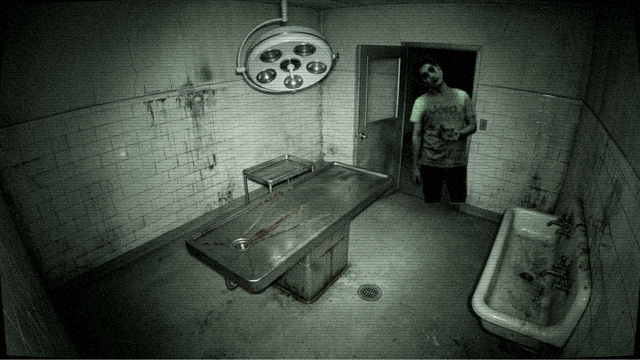
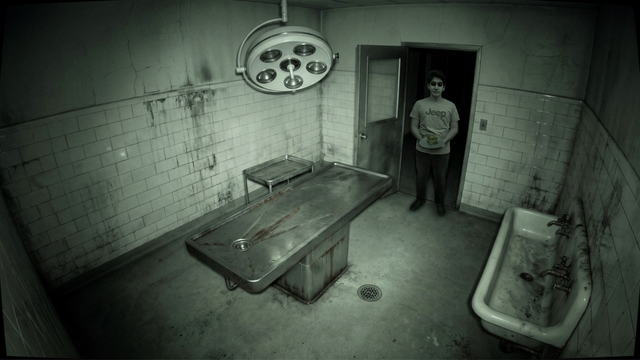
Kamera görüntüleri: Gemini'de yapılan 10 karakterli görsel

diff --git a/index.html b/index.html
@@ -70,7 +70,7 @@
   /* DOCUMENT */
   #doc{background:#030405; cursor:pointer}
   #paperDoc{position:absolute; left:50%; top:50%; width:560px; height:690px; transform:translate(-50%,-50%) rotate(-1.2deg); padding:40px 46px; color:#1c1a16; font-family:'Special Elite','Courier New',monospace; font-size:15.5px; line-height:1.45;
-    background:linear-gradient(rgba(214,205,180,.55),rgba(214,205,180,.55)), url(img/doc/paper.png?v=20261108k) center/cover, #cfc7b0; box-shadow:0 30px 90px rgba(0,0,0,.95), inset 0 0 80px rgba(70,50,20,.5); filter:sepia(.25) brightness(.86) contrast(1.05); animation:paperIn .9s cubic-bezier(.2,.8,.3,1); overflow:hidden}
+    background:linear-gradient(rgba(214,205,180,.55),rgba(214,205,180,.55)), url(img/doc/paper.png?v=20261108l) center/cover, #cfc7b0; box-shadow:0 30px 90px rgba(0,0,0,.95), inset 0 0 80px rgba(70,50,20,.5); filter:sepia(.25) brightness(.86) contrast(1.05); animation:paperIn .9s cubic-bezier(.2,.8,.3,1); overflow:hidden}
   @keyframes paperIn{from{transform:translate(-50%,-30%) rotate(-8deg) scale(.7); opacity:0} to{transform:translate(-50%,-50%) rotate(-1.2deg); opacity:1}}
   #paperDoc .hd{font-size:12.5px; letter-spacing:1px; border-bottom:2px solid #1c1a16; padding-bottom:6px; text-transform:uppercase}
   #paperDoc h2{font-size:24px; margin:14px 0 10px; letter-spacing:2px}
@@ -522,7 +522,7 @@
 
   /* ---------- ana menü v2 ---------- */
   #title{background:#020405}
-  #title .tbg{position:absolute; inset:-40px; background:url(img/office.png?v=20261108k) 40% 50%/cover; filter:blur(5px) brightness(.32) saturate(.6) hue-rotate(10deg); animation:tpan 40s ease-in-out infinite alternate}
+  #title .tbg{position:absolute; inset:-40px; background:url(img/office.png?v=20261108l) 40% 50%/cover; filter:blur(5px) brightness(.32) saturate(.6) hue-rotate(10deg); animation:tpan 40s ease-in-out infinite alternate}
   @keyframes tpan{from{transform:scale(1.08) translateX(-30px)} to{transform:scale(1.15) translateX(30px)}}
   #title .tflk{position:absolute; inset:0; background:linear-gradient(90deg, rgba(2,4,5,.95) 30%, rgba(2,4,5,.4) 60%, rgba(2,4,5,.85)); animation:tflick 7s steps(1) infinite}
   @keyframes tflick{0%,93%,100%{opacity:1} 94%{opacity:.82} 95%{opacity:1} 97%{opacity:.7}}
@@ -580,8 +580,8 @@
 
   /* ---------- ana menü v3: 1998 güvenlik kamerası kaydı ---------- */
   #title{background:#000; font-family:'VT323',monospace; color:#f2f2f2}
-  #title .vfeed{position:absolute; inset:-20px; background:url(img/cam/corr.png?v=20261108k) center/cover; filter:grayscale(1) contrast(1.25) brightness(.8); animation:vjit 6s steps(1) infinite}
-  #title .vfeed.who{background-image:url(img/cam/corr_pasta.png?v=20261108k); opacity:0; animation:vappear 11s steps(1) infinite}
+  #title .vfeed{position:absolute; inset:-20px; background:url(img/cam/corr.png?v=20261108l) center/cover; filter:grayscale(1) contrast(1.25) brightness(.8); animation:vjit 6s steps(1) infinite}
+  #title .vfeed.who{background-image:url(img/cam/corr_pasta.png?v=20261108l); opacity:0; animation:vappear 11s steps(1) infinite}
   @keyframes vappear{0%,80%,100%{opacity:0} 82%,85%{opacity:1}}
   @keyframes vjit{0%,95%,100%{transform:none} 96%{transform:translate(0,4px) skewX(1deg)} 97%{transform:translate(0,-3px)}}
   #title .vlines{position:absolute; inset:0; background:repeating-linear-gradient(0deg, rgba(0,0,0,.35) 0 2px, transparent 2px 4px); pointer-events:none}
@@ -617,8 +617,8 @@
 
   /* ---------- VHS ekranları (arşiv, custom night, gece başı, 6 AM, belge) ---------- */
   .vhs{background:#000; font-family:'VT323',monospace; color:#f2f2f2}
-  .vhs .vbg{position:absolute; inset:-20px; background:url(img/cam/archive.png?v=20261108k) center/cover; filter:grayscale(1) contrast(1.2) brightness(.32) blur(1px); animation:vjit 7s steps(1) infinite}
-  #custom .vbg{background-image:url(img/cam/cold.png?v=20261108k)} #doc .vbg{background-image:url(img/cam/autopsy.png?v=20261108k); filter:grayscale(1) brightness(.18) blur(3px)}
+  .vhs .vbg{position:absolute; inset:-20px; background:url(img/cam/archive.png?v=20261108l) center/cover; filter:grayscale(1) contrast(1.2) brightness(.32) blur(1px); animation:vjit 7s steps(1) infinite}
+  #custom .vbg{background-image:url(img/cam/cold.png?v=20261108l)} #doc .vbg{background-image:url(img/cam/autopsy.png?v=20261108l); filter:grayscale(1) brightness(.18) blur(3px)}
   .vhs .vlines{position:absolute; inset:0; background:repeating-linear-gradient(0deg, rgba(0,0,0,.35) 0 2px, transparent 2px 4px); pointer-events:none; z-index:1}
   .vhs .vvig{position:absolute; inset:0; background:radial-gradient(ellipse at center, transparent 45%, rgba(0,0,0,.85)); pointer-events:none}
   .vhs .osd{position:absolute; font-size:34px; text-shadow:2px 2px 0 #000; z-index:2}
@@ -727,7 +727,7 @@
   <section id="game" class="screen">
     <div id="office">
       <div id="view">
-        <img class="bg" src="img/office.png?v=20261108k" alt="">
+        <img class="bg" src="img/office.png?v=20261108l" alt="">
         <div id="doorClip"></div>
         <div class="hole" id="corr"><div class="beam"></div><div id="headlight"></div></div>
         <div class="hole" id="dwL"><div class="shutter"></div></div>
@@ -771,7 +771,7 @@
           <div class="menu"><u>D</u>osya &nbsp; <u>G</u>örünüm &nbsp; <u>K</u>ameralar &nbsp; <u>Y</u>ardım</div>
           <div id="feedWin">
             <div class="wtitle"><span id="camName"></span><span>● REC</span></div>
-            <div id="feedBox"><img id="feedImg" src="img/cam/corr.png?v=20261108k" alt=""><canvas id="static" width="320" height="180"></canvas><div class="tint"></div><div id="stamp"></div><div id="d5">D5</div><div id="itsmeCam">IT'S ME</div>
+            <div id="feedBox"><img id="feedImg" src="img/cam/corr.png?v=20261108l" alt=""><canvas id="static" width="320" height="180"></canvas><div class="tint"></div><div id="stamp"></div><div id="d5">D5</div><div id="itsmeCam">IT'S ME</div>
               <div id="coldPanel"><span>SOĞUK ODA</span><div id="tempBar"><div id="tempFill"></div></div><span id="tempTxt">0°</span><button id="bCool">Soğut (C)</button></div>
             </div>
           </div>
@@ -848,17 +848,17 @@
   <section id="scare" class="screen"><img id="scareImg" src="" alt=""><div class="flash"></div></section>
   <section id="six" class="screen vhs"><div class="vlines"></div><div class="vignette"></div><div class="center"><div class="clock" id="sixClock">5 AM</div><div class="msg" id="sixMsg"></div><button class="big-btn" id="bNext" style="visibility:hidden">DEVAM →</button></div></section>
   <section id="over" class="screen"><div class="vignette"></div><div class="center"><div class="t">ÖLDÜN</div><div class="why" id="overWhy"></div><div><button class="big-btn" id="bRetry">TEKRAR DENE</button> <button class="big-btn" id="bMenu1">MENÜ</button></div></div></section>
-  <section id="ending" class="screen"><img id="endImg" src="img/ending.png?v=20261108k" alt=""><div class="txt" id="endTxt"></div><button class="big-btn" id="bMenu2" style="position:absolute;right:40px;top:20px;margin:0;font-size:24px">MENÜ</button></section>
+  <section id="ending" class="screen"><img id="endImg" src="img/ending.png?v=20261108l" alt=""><div class="txt" id="endTxt"></div><button class="big-btn" id="bMenu2" style="position:absolute;right:40px;top:20px;margin:0;font-size:24px">MENÜ</button></section>
   <section id="crash" class="screen"><div class="center"><b>:(</b><b>Bu sayfa yanıt vermiyor</b><i>Hata kodu: DENEK_5_CEVRIMICI</i></div></section>
   <section id="archive" class="screen vhs"><div class="vbg"></div><div class="vlines"></div><div class="vvig"></div><div class="osd tl"><span class="play">▶</span> ARŞİV · KASET RAFI</div><div class="osd tr" id="arcCount"></div><div id="arcList"></div><button class="back" id="bArcBack">◀ MENÜ</button></section>
   <section id="custom" class="screen vhs"><div class="vbg"></div><div class="vlines"></div><div class="vvig"></div><div class="osd tl"><span class="play">●</span> CUSTOM NIGHT · KANAL AYARI</div><div class="osd tr">7. GECE</div><div id="ccards"></div><div id="cpresets"><span>HAZIR:</span><button data-p="easy">KOLAY</button><button data-p="n6">6. GECE</button><button data-p="max">20/20</button></div><button class="back" id="bCusBack">◀ MENÜ</button><button id="cStart">▶ OYNAT</button></section>
 </div>
 
-<script src="audio.js?v=20261108k"></script>
-<script src="core.js?v=20261108k"></script>
-<script src="nights.js?v=20261108k"></script>
-<script src="save.js?v=20261108k"></script>
+<script src="audio.js?v=20261108l"></script>
+<script src="core.js?v=20261108l"></script>
+<script src="nights.js?v=20261108l"></script>
+<script src="save.js?v=20261108l"></script>
 <script src="lore.js?v=2"></script>
-<script src="game.js?v=20261108k"></script>
+<script src="game.js?v=20261108l"></script>
 </body>
 </html>

diff --git a/game.js b/game.js
@@ -10,7 +10,7 @@ addEventListener('resize', fit); fit();
[1 lines of base64/hex data omitted]
 addEventListener('error', e => { const t = e.target; if (t && t.tagName === 'IMG' && t.src !== BLANK) { t.dataset.missing = t.getAttribute('src'); t.src = BLANK; } }, true);
 // görsel adreslerine sürüm eklenir: güncellemeden sonra tarayıcı eski görseli önbellekten getirmesin
-const ASSET_V = '20261108k';
+const ASSET_V = '20261108l';
 const av = u => /^img\//.test(u) && !u.includes('?') ? u + '?v=' + ASSET_V : u;
 function setSrc(img, src) { if (img.dataset.want !== src) { img.dataset.want = src; img.src = av(src); } }
 

diff --git a/tools/cam_import.py b/tools/cam_import.py
@@ -1,10 +1,12 @@
 """Gemini'den gelen kamera görüntülerini oyuna alır: img/cam_raw/<ad>.png -> img/cam/<ad>.png (640x360, ortadan 16:9 kırpma).
 Kullanım: python3 tools/cam_import.py [ad ...]   (ad verilmezse GEMINI_KAMERA.md'deki onu da denenir)"""
 import sys
+import numpy as np
 from pathlib import Path
 from PIL import Image
 
 ROOT = Path(__file__).resolve().parent.parent
+ROOM = lambda n: n.split('_')[0]   # corr_pasta -> corr
 NAMES = ['corr_pasta', 'autopsy_pasta', 'archive_avukat', 'lift_avukat', 'lift_sultan', 'ventA_sahil', 'ventB_sahil', 'cold_hot', 'cold_open', 'wash_sahil']
 
 for n in sys.argv[1:] or NAMES:
@@ -13,4 +15,13 @@ for n in sys.argv[1:] or NAMES:
     im = Image.open(src).convert('RGB'); w, h = im.size
     if w / h > 16 / 9: cw = round(h * 16 / 9); im = im.crop(((w - cw) // 2, 0, (w - cw) // 2 + cw, h))
     else: ch = round(w * 9 / 16); im = im.crop((0, (h - ch) // 2, w, (h - ch) // 2 + ch))
-    im.resize((640, 360), Image.LANCZOS).save(ROOT / f'img/cam/{n}.png'); print('img/cam/' + n + '.png  <-', src.name)
+    im = im.resize((640, 360), Image.LANCZOS)
+    # boş odayla aynı tona getir (kamera değişince parlaklık zıplamasın): sadece benzer kalan arka plan piksellerine bakılır
+    base = ROOT / f'img/cam/{ROOM(n)}.png'
+    if base.exists():
+        a = np.asarray(Image.open(base).convert('RGB'), float); b = np.asarray(im, float)
+        m = np.abs(a.mean(2) - b.mean(2)) < 25
+        if m.mean() > .3:
+            gain = a[m].mean(0) / np.maximum(1, b[m].mean(0))
+            im = Image.fromarray(np.clip(b * gain, 0, 255).astype(np.uint8))
+    im.save(ROOT / f'img/cam/{n}.png'); print('img/cam/' + n + '.png  <-', src.name)

diff --git a/tools/cam_composite.py b/tools/cam_composite.py
@@ -58,9 +58,12 @@ if __name__ == '__main__':
         ('ventB_sahil', 'ventB', 'sahil', 322, 392, 225, .9),
         ('wash_sahil', 'wash', 'sahil', 418, 322, 118, .62),
     ]
+    gem = lambda n: any((ROOT / 'img/cam_raw').glob(n + '.*'))   # Gemini görseli varsa o kullanılır (tools/cam_import.py)
     for out, bg, cut, x, y, h, l in jobs:
+        if gem(out): continue
         cctv(place(B(bg), C(cut), x, y, h, l)).save(ROOT / f'img/cam/{out}.png'); print(f'img/cam/{out}.png')
     sx, foot, h = 402, 262, 175
+    if gem('lift_sultan'): raise SystemExit
     im = place(B('lift'), C('sultan'), sx, foot, h, 1.0)
     im = glow(im, sx, foot - h * .55, 70, .45)
     cctv(im).save(ROOT / 'img/cam/lift_sultan.png'); print('img/cam/lift_sultan.png')

diff --git a/tools/cam_cold.py b/tools/cam_cold.py
@@ -101,4 +101,7 @@ def opened(src):
 if __name__ == '__main__':
     np.random.seed(7)
     src = base()
-    save(src, 'cold'); hot(src); opened(src)
+    save(src, 'cold')
+    gem = lambda n: any((ROOT / 'img/cam_raw').glob(n + '.*'))   # Gemini görseli varsa dokunma
+    if not gem('cold_hot'): hot(src)
+    if not gem('cold_open'): opened(src)
